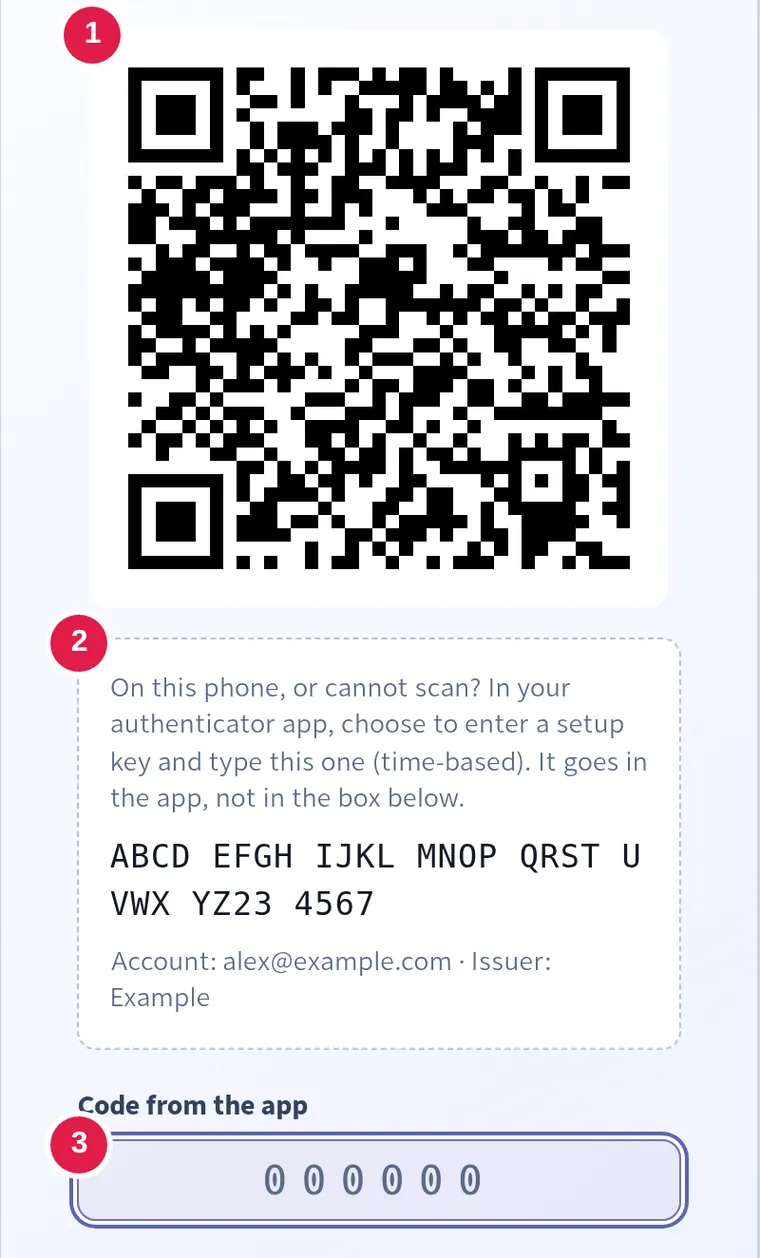
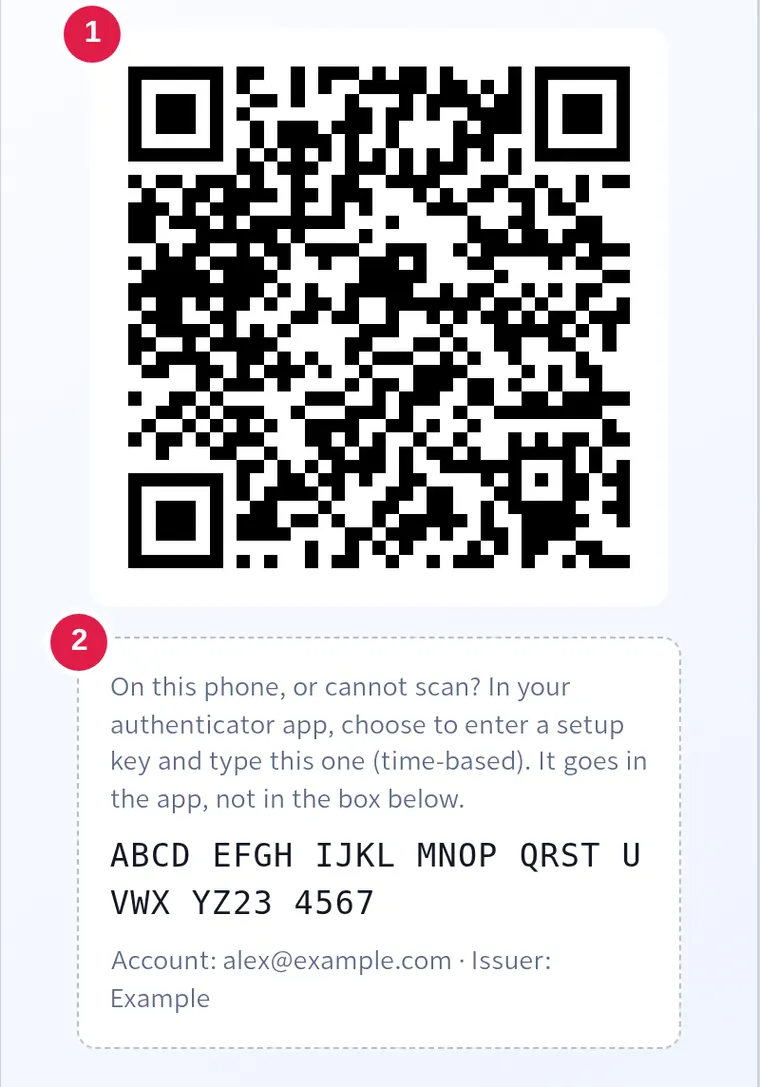
Crop the guide's set-up screenshot to the QR code and setup key
The code box (3) has its own picture in step 3, so the step 2 picture
stops at the setup key (1 and 2).

Changed region(s): [[0.0605, 0.0, 0.9079, 1.0], [0.8171, 0.759, 0.8474, 0.8197]]

diff --git a/internal/httpapi/templates/help-authenticator.html b/internal/httpapi/templates/help-authenticator.html
@@ -45,7 +45,7 @@
           <figcaption>In your app</figcaption>
         </figure>
         <figure class="shot">
-          <img src="{{asset "help/setup-page.webp"}}" width="760" height="1258" loading="lazy" alt="Part of the set-up page: the QR code marked 1, the setup key marked 2 and the code box marked 3.">
+          <img src="{{asset "help/setup-page.webp"}}" width="760" height="1087" loading="lazy" alt="Part of the set-up page: the QR code marked 1 and the setup key marked 2.">
           <figcaption>On the set-up page (example: this QR code and key will not work)</figcaption>
         </figure>
       </div>

diff --git a/AGENTS.md b/AGENTS.md
@@ -102,8 +102,8 @@ directly) and `admin-noscript.css`. `help/` holds the pictures of the
 authenticator guide (`/help/authenticator`): a drawn `.svg` illustration
 of an app's add menu (presentation attributes only, since an SVG asset is
 served under `default-src 'none'`) and two `.webp` screenshots: the
-set-up page cropped to the QR code, setup key and code box, and the code
-box and its button alone, taken in Chromium (light, 2x, resized
+set-up page cropped to the QR code and setup key, and the code box and
+its button, taken in Chromium (light, 2x, resized
 to 760px wide) from a local password-mode server with
 `AUTH_BRAND_NAME=Example` and `alex@example.com`. In the screenshots the QR
 is replaced by one that only reads "This is an example picture..." and the
